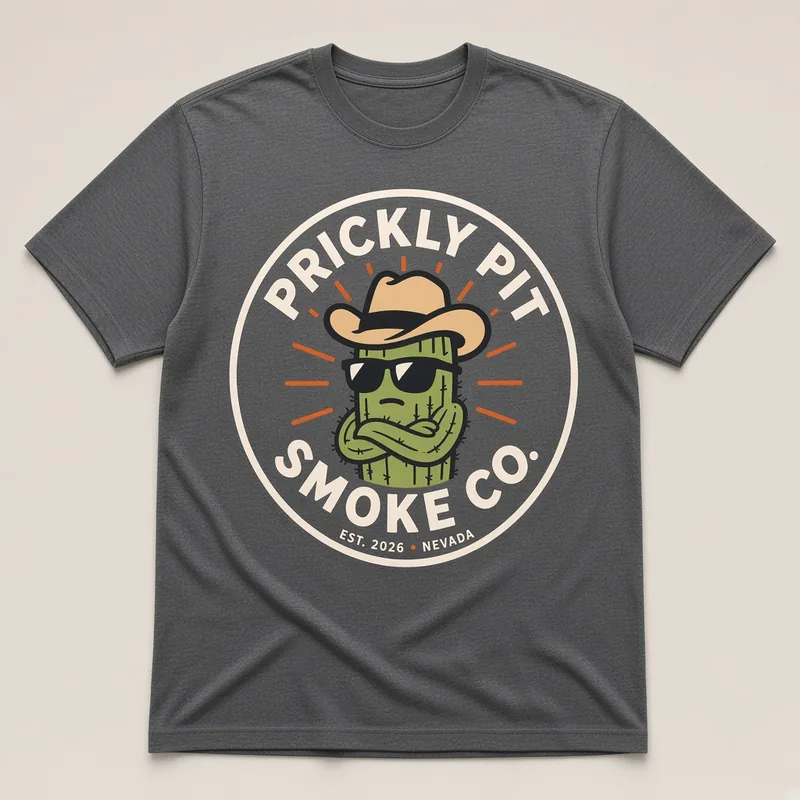
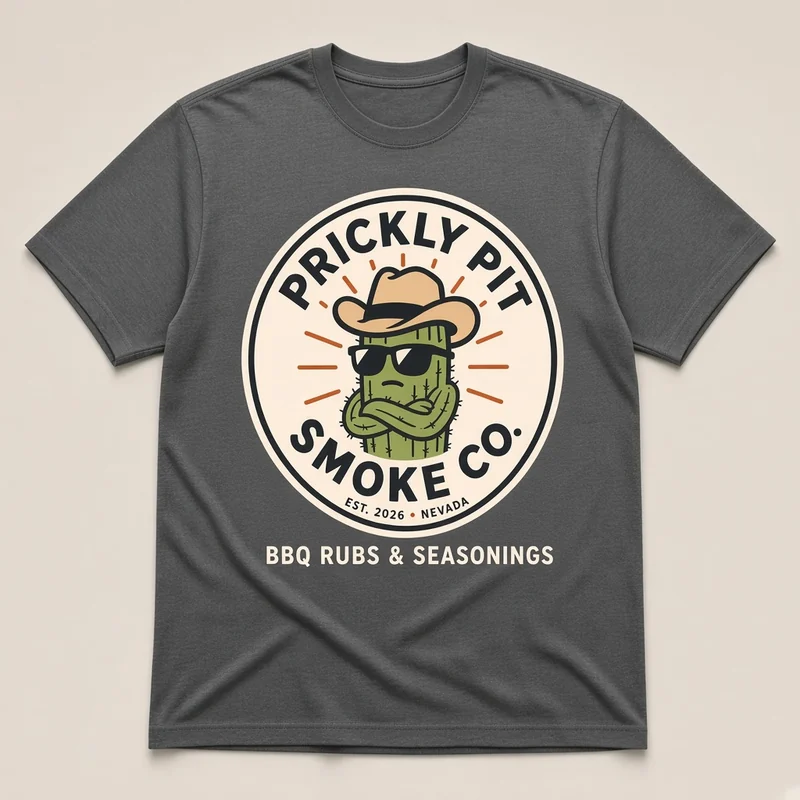
Update Prickly Pit jar, tee, and hat product photos
Replace the jar photo with a 5.5 oz Prickly Pit Original label, and add "BBQ Rubs & Seasonings" under the logo on the tee and hat so the merch reads as food, not vapes.

diff --git a/prickly-pit-smoke-co/index.html b/prickly-pit-smoke-co/index.html
@@ -349,7 +349,7 @@ footer.brand-foot p{margin:0}
     <div class="product-grid">
       <article class="card">
         <div class="media">
-          <img class="jar" src="/images/prickly-pit/jar.webp" width="864" height="1152" alt="Shaker jar of Prickly Pit Smoke Co. Smoky Roasted Garlic Rub, with the cowboy cactus logo on a cream label">
+          <img class="jar" src="/images/prickly-pit/jar.webp?v=2" width="864" height="1152" alt="Shaker jar of Prickly Pit Original Smoky Roasted Garlic Rub, Net Wt 5.5 oz (156 g), with the cowboy cactus logo on a cream label">
           <span class="badge-oos">Out of stock</span>
         </div>
         <div class="card-body">
@@ -362,23 +362,23 @@ footer.brand-foot p{margin:0}
       </article>
       <article class="card">
         <div class="media">
-          <img src="/images/prickly-pit/tee.webp" width="800" height="800" alt="Charcoal T-shirt with the Prickly Pit Smoke Co. cowboy cactus logo" loading="lazy" decoding="async">
+          <img src="/images/prickly-pit/tee.webp?v=2" width="800" height="800" alt="Charcoal T-shirt with the Prickly Pit Smoke Co. cowboy cactus logo and the words BBQ Rubs &amp; Seasonings under the logo" loading="lazy" decoding="async">
           <span class="badge-oos">Out of stock</span>
         </div>
         <div class="card-body">
           <h2>Logo Tee</h2>
-          <p class="card-desc">A charcoal T-shirt with the Prickly Pit Smoke Co. cowboy cactus logo.</p>
+          <p class="card-desc">A charcoal T-shirt with the cowboy cactus logo and &ldquo;BBQ Rubs &amp; Seasonings&rdquo; under it.</p>
           <button type="button" class="btn-oos" disabled>Out of stock</button>
         </div>
       </article>
       <article class="card">
         <div class="media">
-          <img src="/images/prickly-pit/hat.webp" width="800" height="800" alt="Olive and cream trucker hat with an embroidered Prickly Pit Smoke Co. patch" loading="lazy" decoding="async">
+          <img src="/images/prickly-pit/hat.webp?v=2" width="800" height="800" alt="Olive and cream trucker hat with an embroidered Prickly Pit Smoke Co. patch and a BBQ Rubs &amp; Seasonings banner under the logo" loading="lazy" decoding="async">
           <span class="badge-oos">Out of stock</span>
         </div>
         <div class="card-body">
           <h2>Logo Hat</h2>
-          <p class="card-desc">An olive and cream trucker hat with an embroidered Prickly Pit Smoke Co. patch.</p>
+          <p class="card-desc">An olive and cream trucker hat with an embroidered logo patch and a &ldquo;BBQ Rubs &amp; Seasonings&rdquo; banner under it.</p>
           <button type="button" class="btn-oos" disabled>Out of stock</button>
         </div>
       </article>
